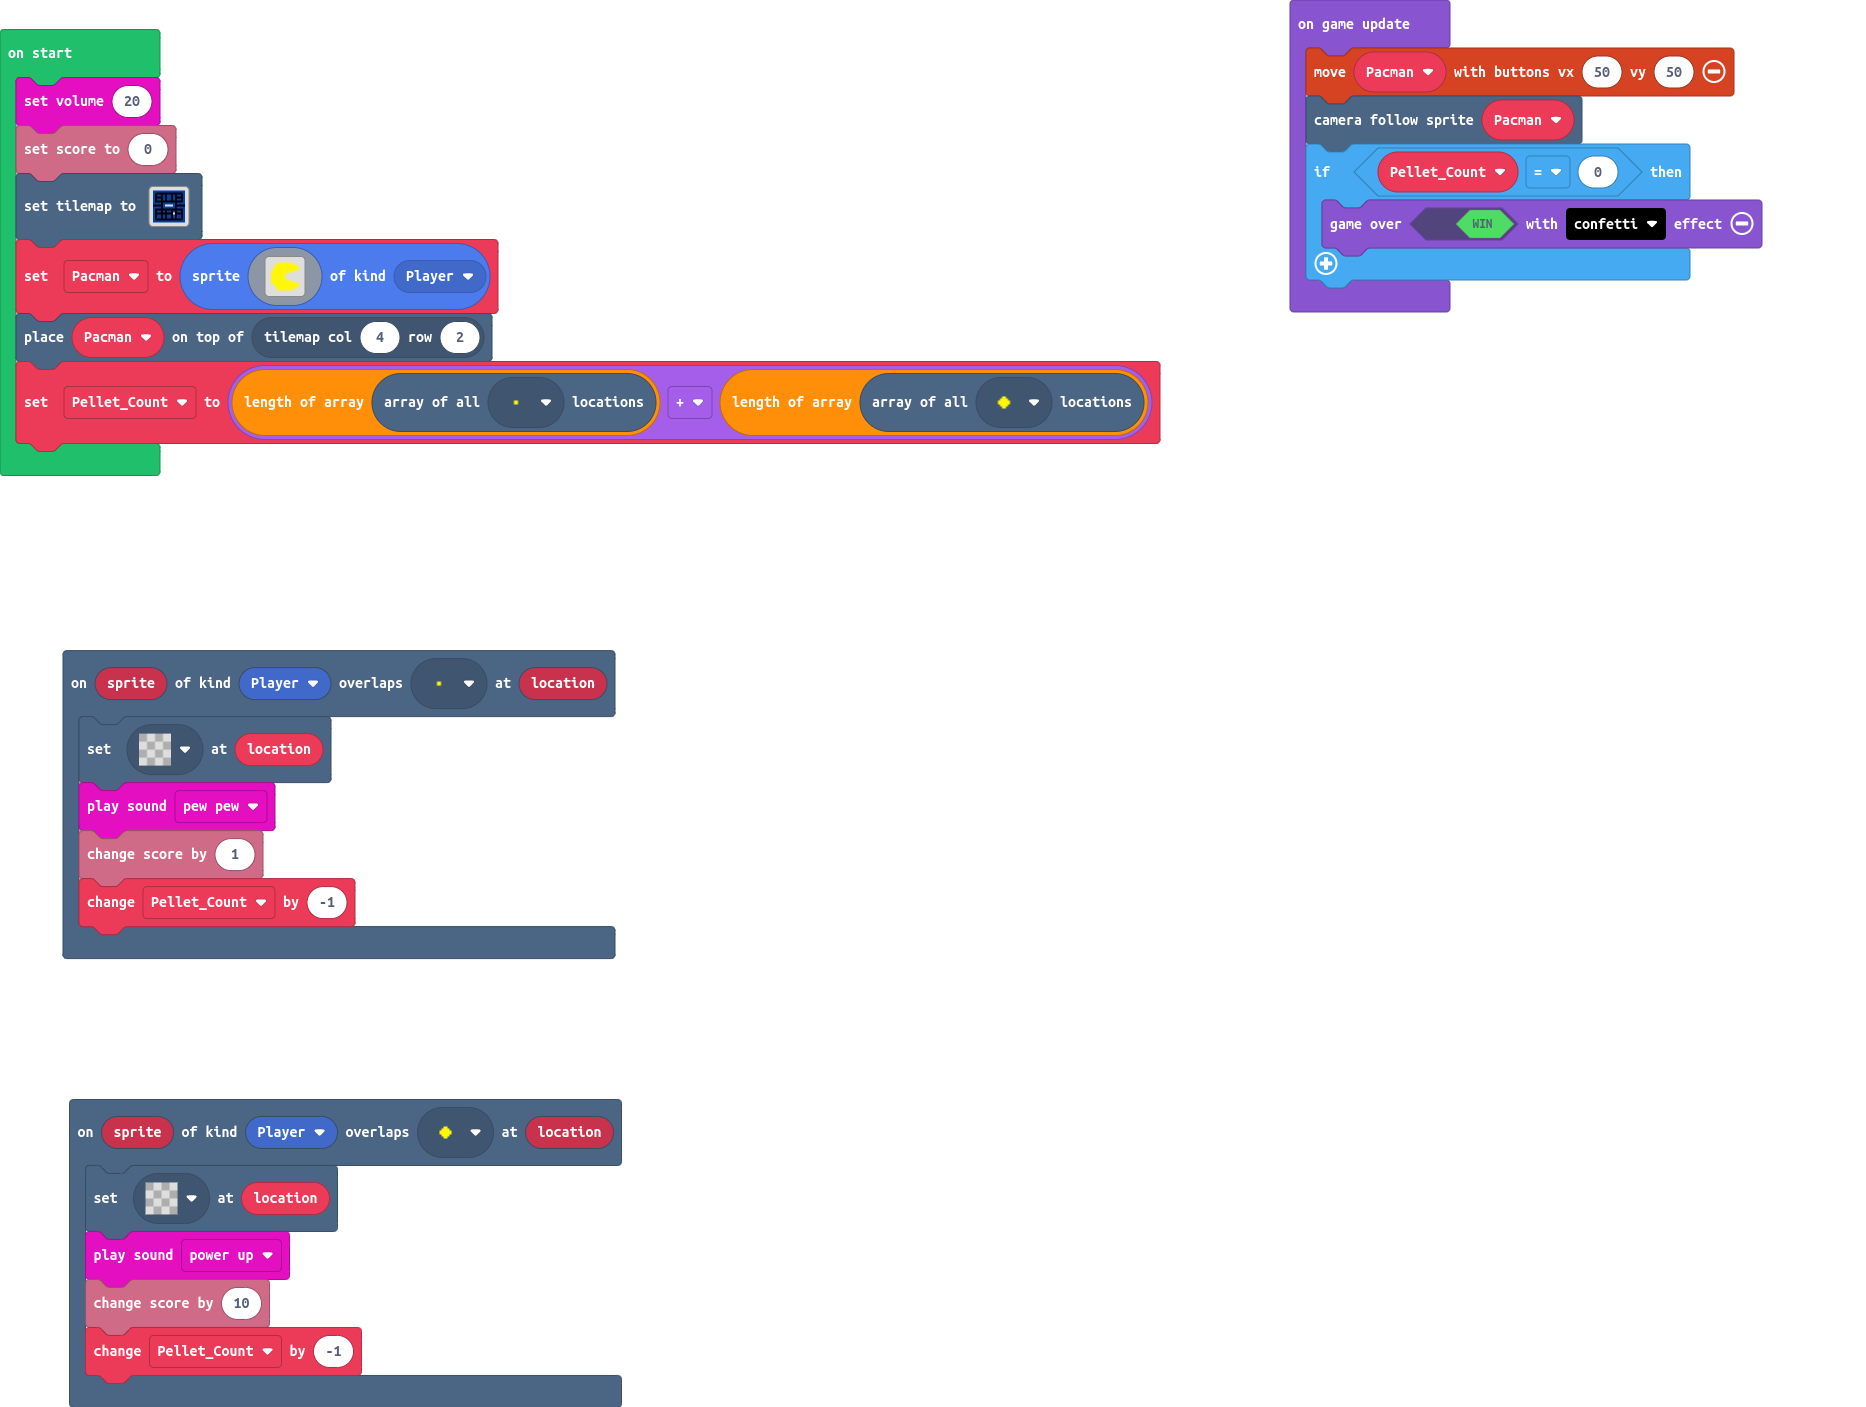
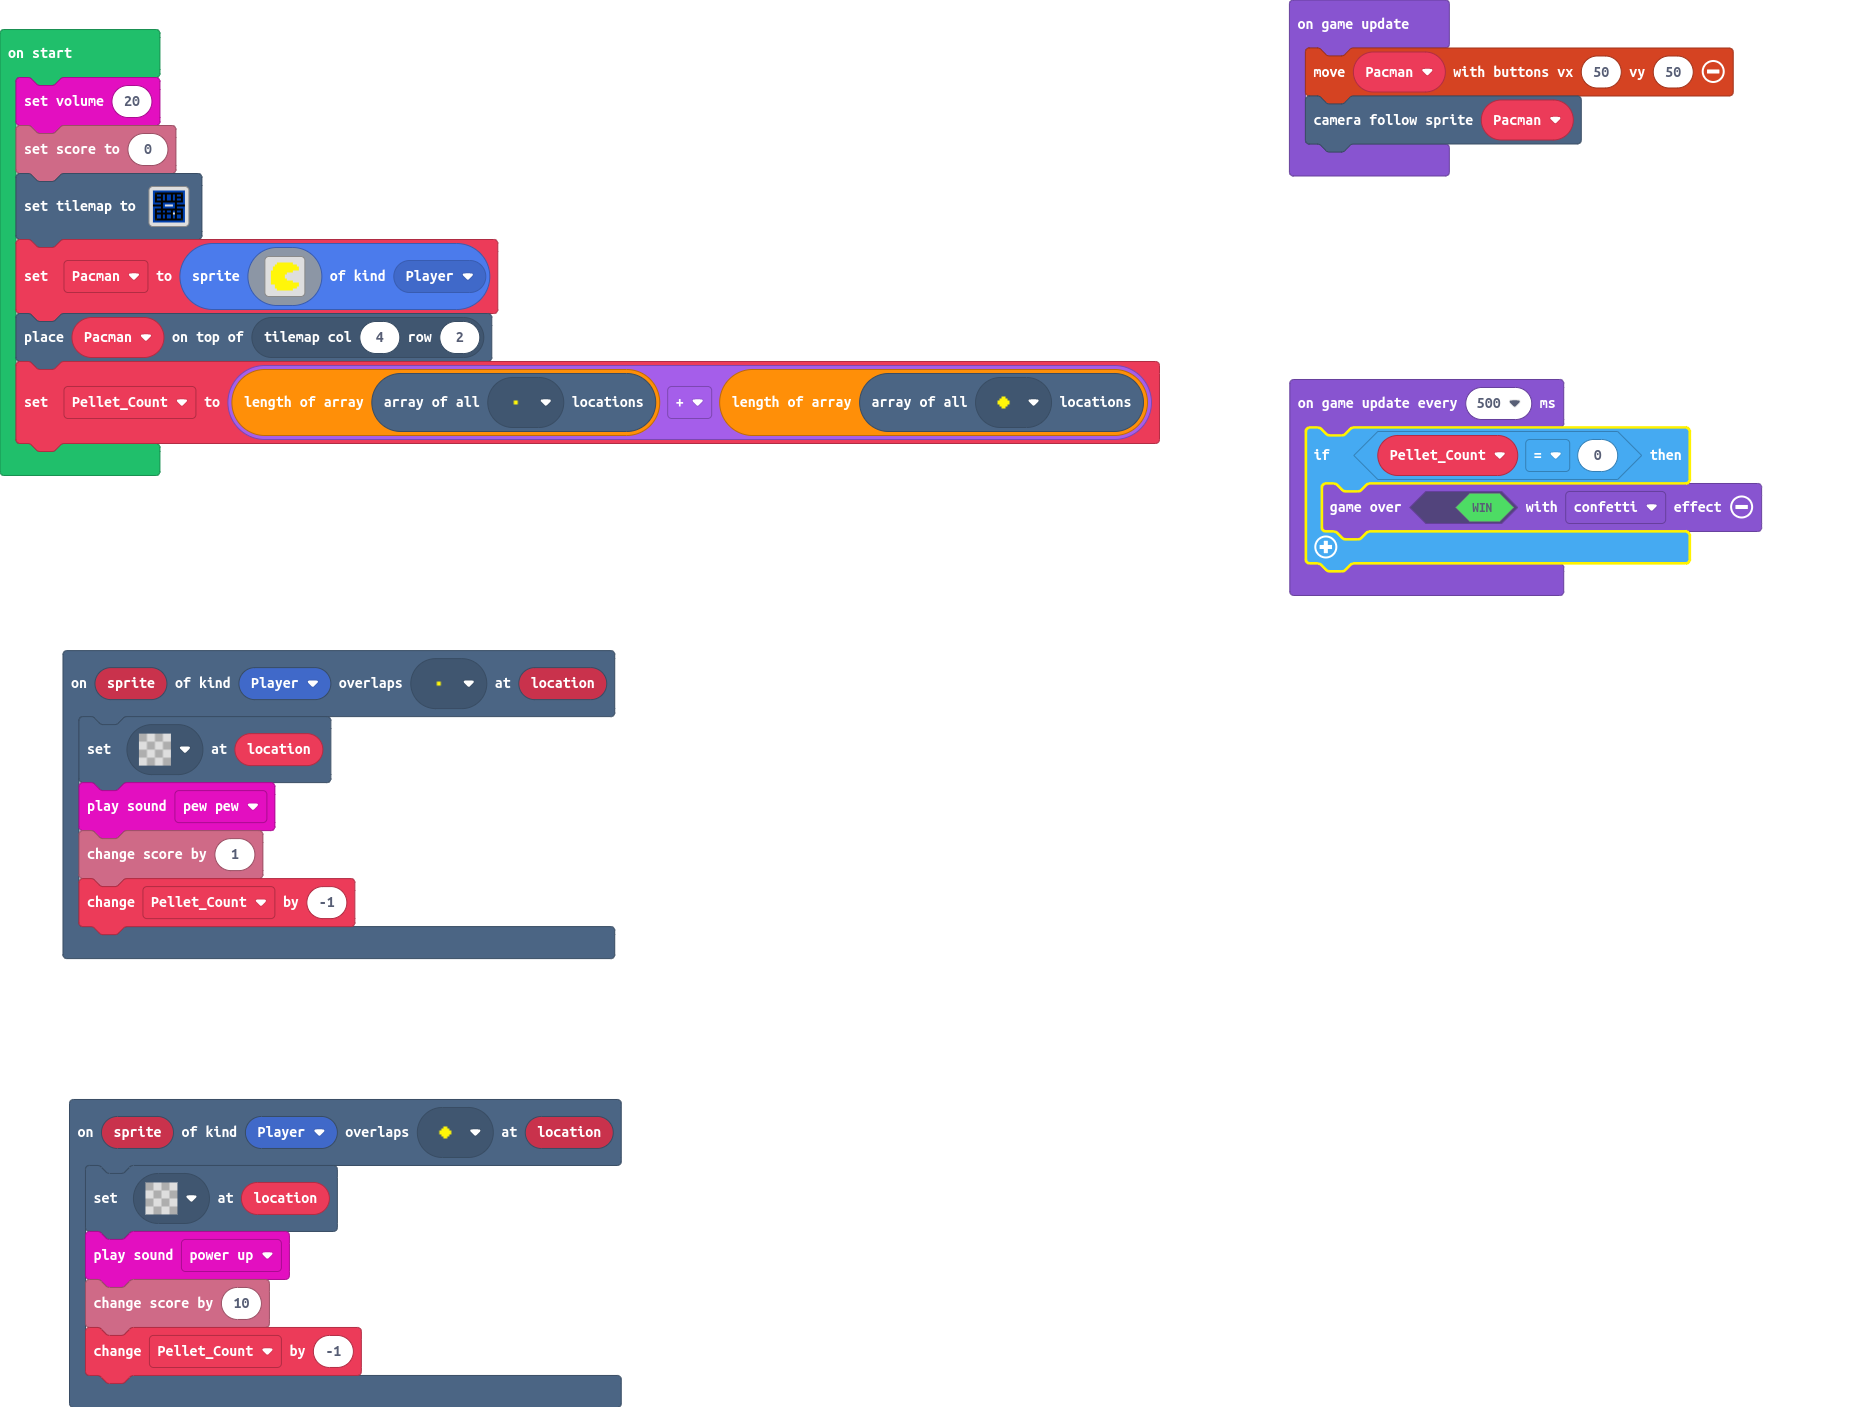
Use delayed update loop for game end logic.

diff --git a/main.ts b/main.ts
@@ -136,6 +136,8 @@ let Pellet_Count = tiles.getTilesByType(myTiles.tile2).length + tiles.getTilesBy
 game.onUpdate(function () {
     controller.moveSprite(Pacman, 50, 50)
     scene.cameraFollowSprite(Pacman)
+})
+game.onUpdateInterval(500, function () {
     if (Pellet_Count == 0) {
         game.over(true, effects.confetti)
     }
